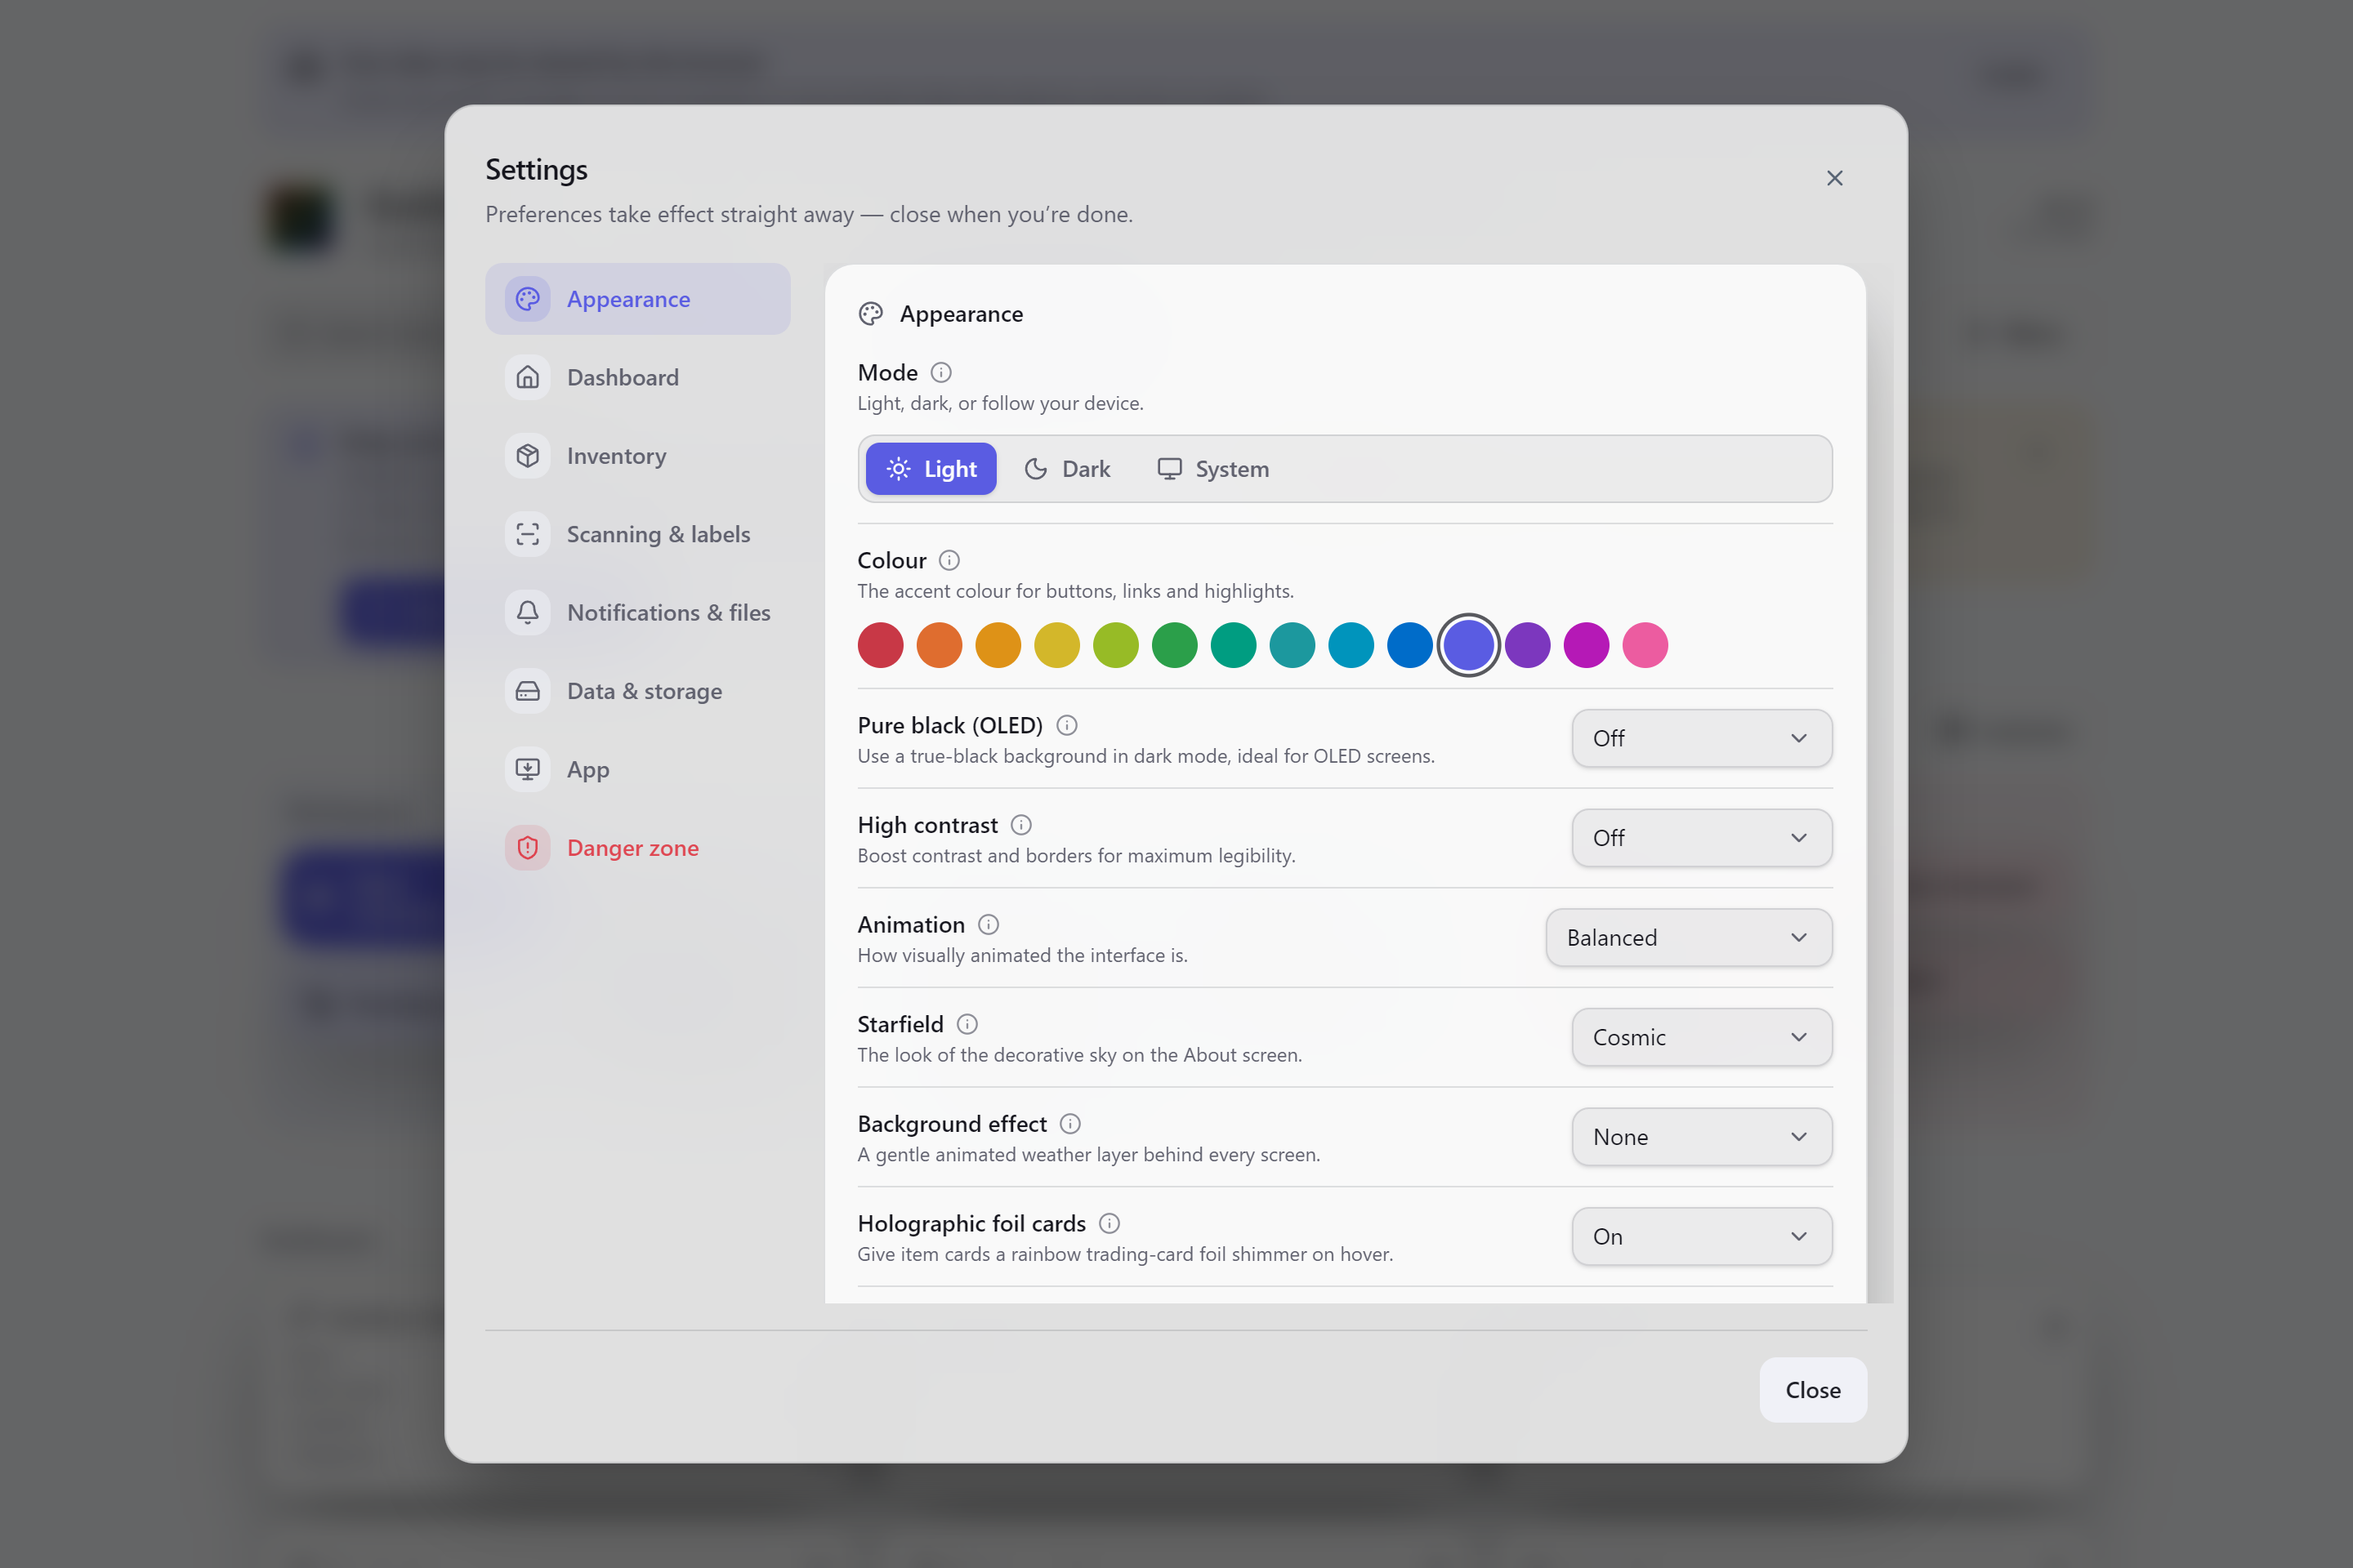
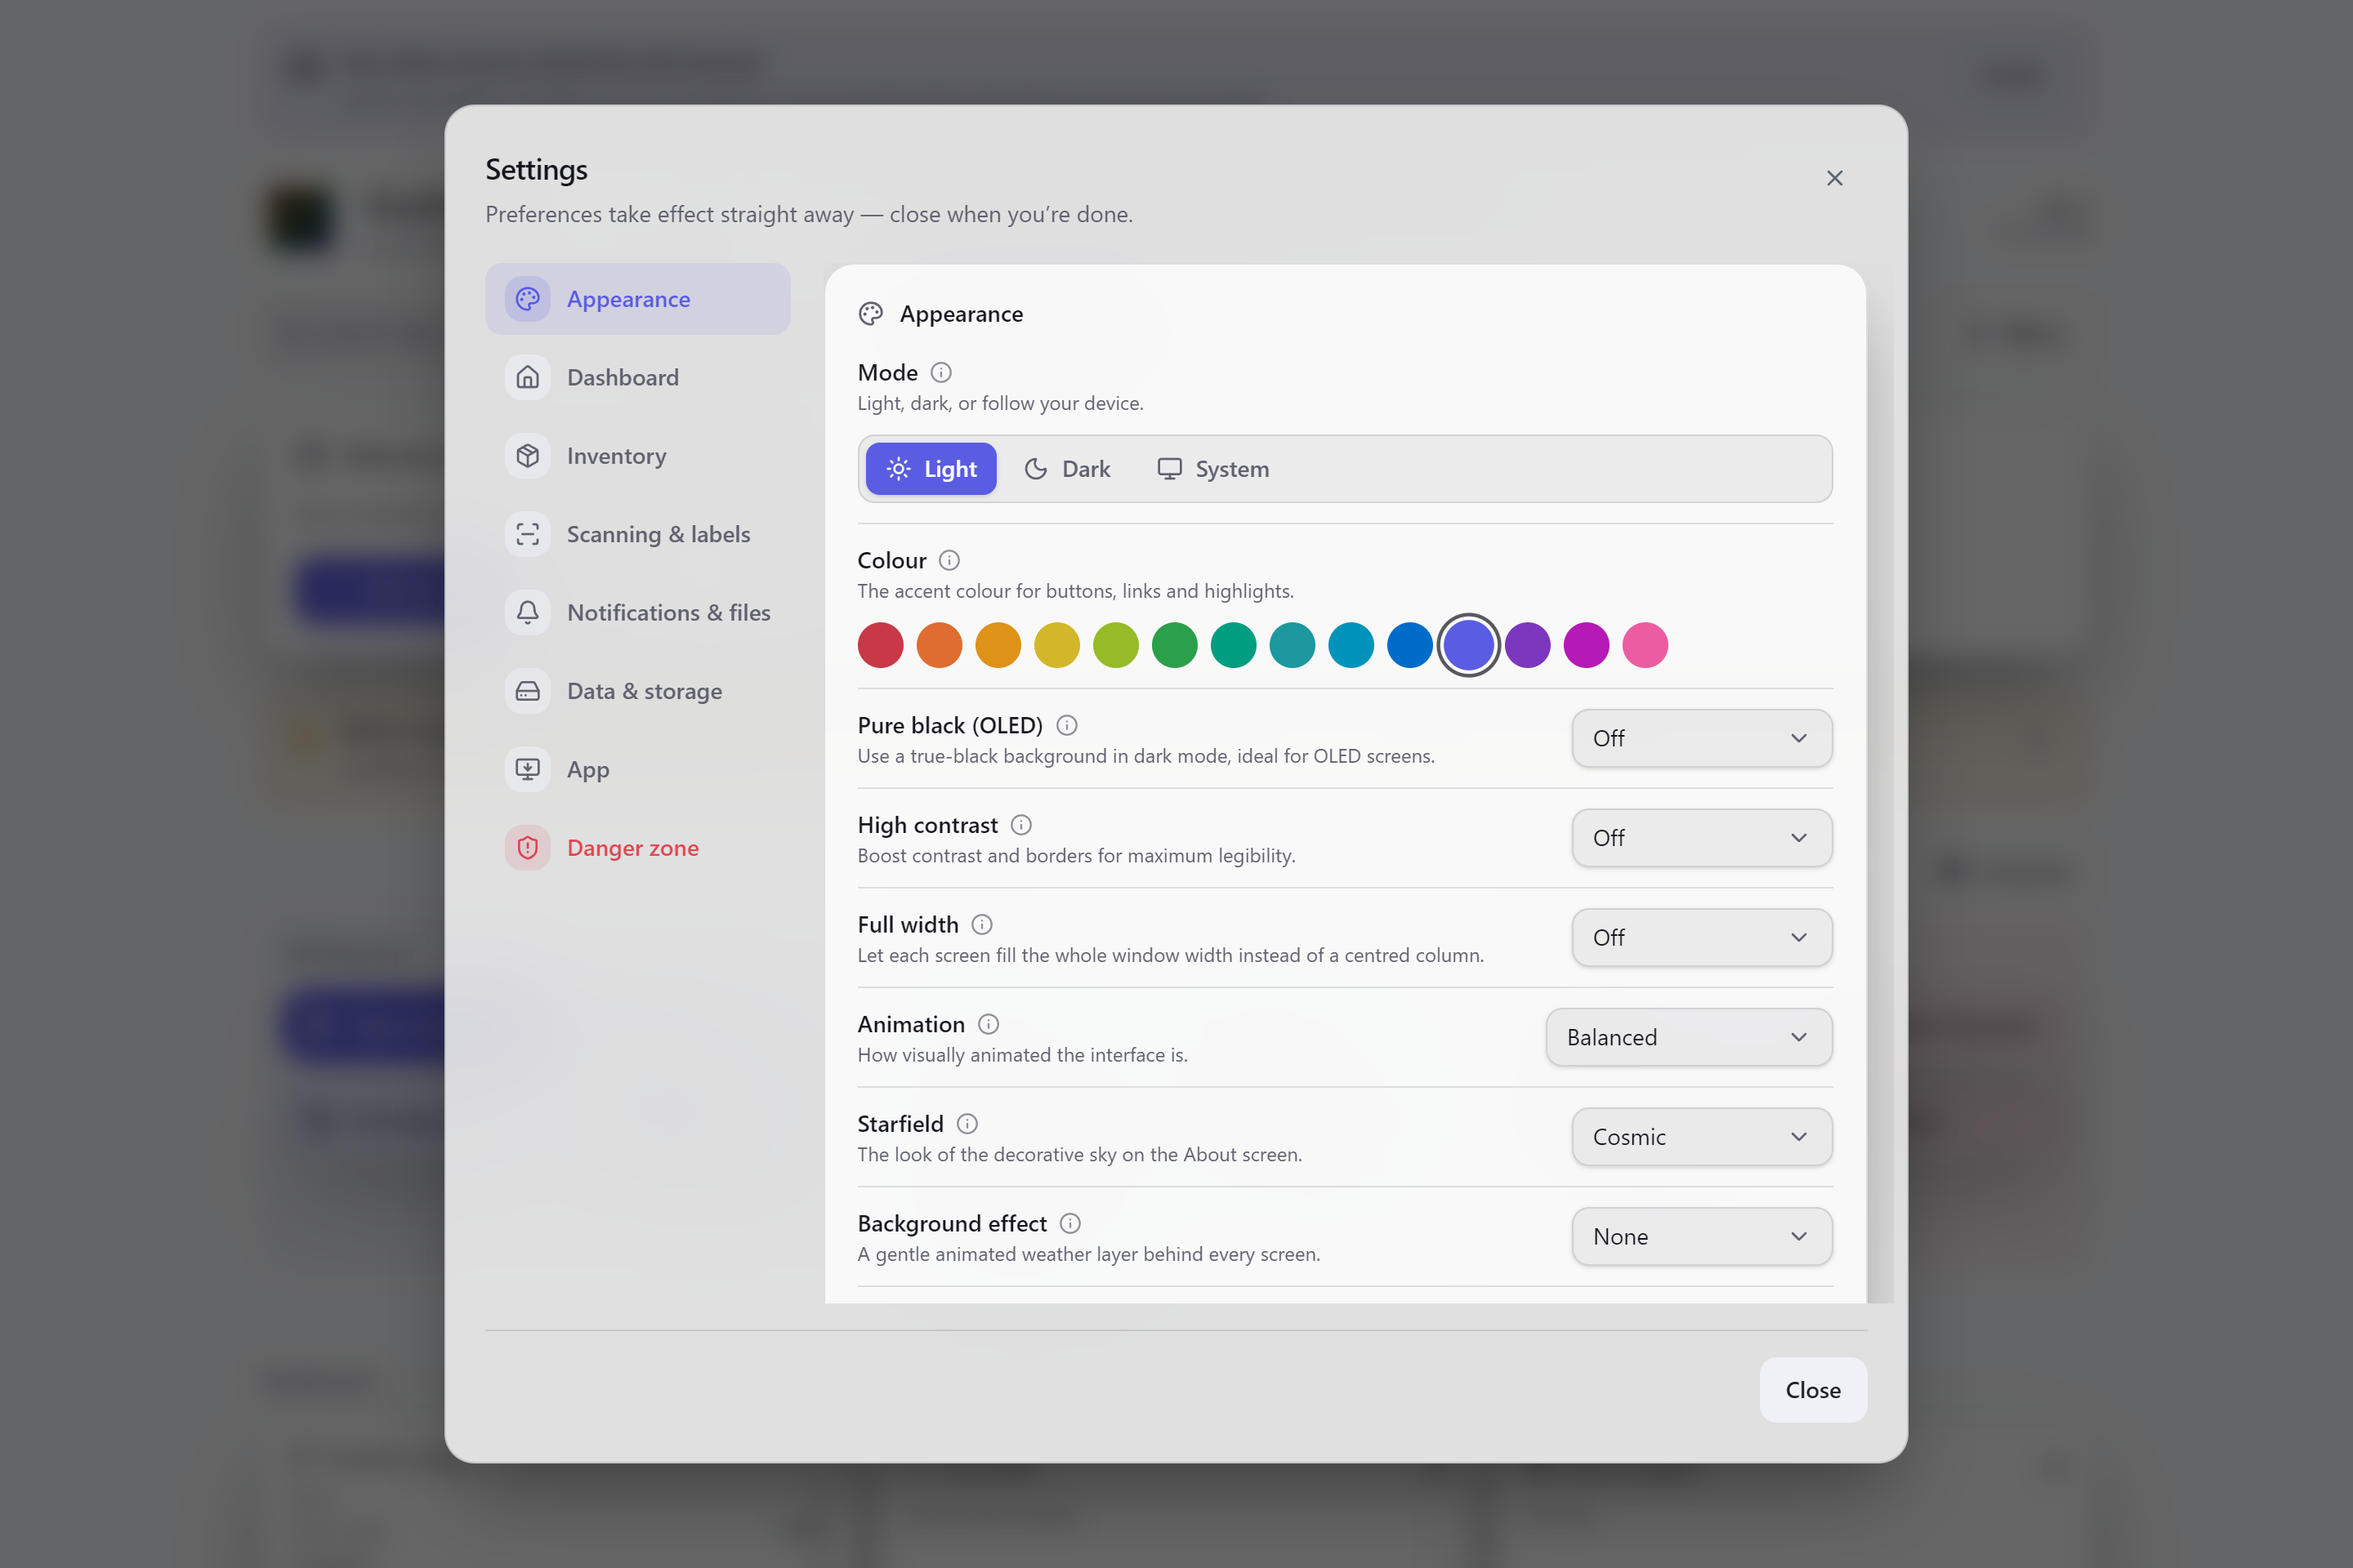
feat(appearance): add a Full-width page layout toggle (#14)
Add a "Full width" On/Off switch to Settings → Appearance (default off).
When on, the shared PageContainer frame drops its centred max-width cap so
every screen fills the viewport width; off keeps the centred column. The
storage-banner chrome follows the same opt-out so it stays aligned with the
page. Backed by a new `fullWidth` preference read straight from the store.

diff --git a/src/state/stores/usePreferencesStore.ts b/src/state/stores/usePreferencesStore.ts
@@ -124,6 +124,14 @@ interface PreferencesStore {
   /** Accessibility high-contrast mode; boosts contrast + borders over the active mode/accent. */
   readonly highContrast: boolean;
   /**
+   * Full-width page layout (issue #14). When on, the shared page frame drops its centred
+   * `max-w` cap so every screen fills the available viewport width instead of sitting in a
+   * fixed-width column. **Off by default** — the centred column is the shipped look. Read
+   * directly from this store by the {@link import('@/components/foundry').PageContainer} frame
+   * (a pure layout concern, so — unlike the mode/accent axes — it is not projected onto `<html>`).
+   */
+  readonly fullWidth: boolean;
+  /**
    * Animation level: how visually animated the interface is, on a single graded scale
    * (`full` → `balanced` → `calm` → `off` → `headache`). **Defaults to `full`** (the shipped
    * experience). Supersedes the earlier binary "Reduce effects" switch; it is projected onto
@@ -377,6 +385,8 @@ interface PreferencesStore {
   setAccent: (accent: Accent) => void;
   setOledDark: (enabled: boolean) => void;
   setHighContrast: (enabled: boolean) => void;
+  /** Turn the full-width page layout on/off (issue #14). */
+  setFullWidth: (enabled: boolean) => void;
   /**
    * Set how visually animated the interface is. Choosing the maximal `headache` preset also brings
    * the ambient Snow background effect on by default (when no effect is chosen yet), as part of its
@@ -467,6 +477,7 @@ export const usePreferencesStore = create<PreferencesStore>()(
       accent: 'violet',
       oledDark: false,
       highContrast: false,
+      fullWidth: false,
       animationLevel: DEFAULT_ANIMATION_LEVEL,
       starfieldVariant: DEFAULT_STARFIELD_VARIANT,
       backgroundEffect: DEFAULT_BACKGROUND_EFFECT,
@@ -525,6 +536,7 @@ export const usePreferencesStore = create<PreferencesStore>()(
       setAccent: (accent) => set({ accent: normaliseAccent(accent) }),
       setOledDark: (oledDark) => set({ oledDark }),
       setHighContrast: (highContrast) => set({ highContrast }),
+      setFullWidth: (fullWidth) => set({ fullWidth }),
       // Normalise so a stale/unknown persisted value can never reach the apply seam / gate.
       setAnimationLevel: (level) =>
         set((state) => {

diff --git a/src/routes/__root.tsx b/src/routes/__root.tsx
@@ -6,6 +6,8 @@ import { OfflineIndicator } from '@/components/OfflineIndicator';
 import { CommandPalette } from '@/features/command-palette/CommandPalette';
 import { FirstRunModules } from '@/features/modules/FirstRunModules';
 import { SettingsDialogHost } from '@/features/settings/SettingsDialogHost';
+import { cn } from '@/lib/utils';
+import { usePreferencesStore } from '@/state/stores/usePreferencesStore';
 
 /**
  * Root route layout (spec §2.4.2). Hosts the always-visible app chrome — the
@@ -26,6 +28,11 @@ export const Route = createRootRoute({
 });
 
 function RootLayout() {
+  // Keep the storage-banner stack aligned with the page frame's width: it normally shares the
+  // `max-w-6xl` cap so the banners line up with the content beneath, and follows the same
+  // Full-width opt-out (issue #14) so they widen together rather than the banners staying in a
+  // narrow centred column while the page fills the viewport.
+  const fullWidth = usePreferencesStore((s) => s.fullWidth);
   // `isolate` makes this element the stacking context the fixed background-effects canvas belongs
   // to, so its `-z-10` paints *above* this element's opaque `bg-background` (a stacking context
   // paints negative-z-index children after its own background) yet still below all content. Without
@@ -36,7 +43,12 @@ function RootLayout() {
       {/* Decorative animated weather layer, behind all content (opt-in; renders nothing when off). */}
       <BackgroundEffects />
       <SkipLink />
-      <div className="print-hide mx-auto w-full max-w-6xl px-4 pt-4 empty:hidden">
+      <div
+        className={cn(
+          'print-hide mx-auto w-full px-4 pt-4 empty:hidden',
+          fullWidth ? 'max-w-none' : 'max-w-6xl',
+        )}
+      >
         <StorageBanners />
       </div>
       <Outlet />

diff --git a/src/components/foundry/page-container.test.tsx b/src/components/foundry/page-container.test.tsx
@@ -1,8 +1,13 @@
 import { describe, it, expect, afterEach } from 'vitest';
 import { render, screen, cleanup } from '@testing-library/react';
 import { PageContainer } from './page-container';
+import { usePreferencesStore } from '@/state/stores/usePreferencesStore';
 
-afterEach(cleanup);
+afterEach(() => {
+  cleanup();
+  // The full-width layout is a store-read; reset it so it can't leak between cases.
+  usePreferencesStore.setState({ fullWidth: false });
+});
 
 describe('PageContainer — the canonical page frame (spec §2.4.2)', () => {
   it('centres content at the one shared width with a consistent top offset', () => {
@@ -42,6 +47,21 @@ describe('PageContainer — the canonical page frame (spec §2.4.2)', () => {
     expect(frame?.className).not.toContain('gap-6');
     // Same top offset as the default — the header Y never moves between screens.
     expect(frame?.className).toContain('pt-6');
+  });
+
+  it('drops the centred width cap when Full width is on (issue #14)', () => {
+    usePreferencesStore.setState({ fullWidth: true });
+    render(
+      <PageContainer>
+        <span data-testid="child">content</span>
+      </PageContainer>,
+    );
+    const frame = screen.getByTestId('child').parentElement;
+    // The centred cap (and the large-format ceiling) give way to a full-width frame; the
+    // horizontal padding stays so content never touches the viewport edge.
+    expect(frame?.className).toContain('max-w-none');
+    expect(frame?.className).not.toContain('max-w-6xl');
+    expect(frame?.className).toContain('px-4');
   });
 
   it('merges extra classes onto the frame', () => {

diff --git a/src/components/foundry/page-container.tsx b/src/components/foundry/page-container.tsx
@@ -1,5 +1,6 @@
 import { type ReactNode } from 'react';
 import { cn } from '@/lib/utils';
+import { usePreferencesStore } from '@/state/stores/usePreferencesStore';
 
 export interface PageContainerProps {
   readonly children: ReactNode;
@@ -29,13 +30,19 @@ export interface PageContainerProps {
  * relaxed to a wider ceiling (and the side gutter widened), so the frame reclaims the room
  * it would otherwise leave as empty margin — see the `large-format:` variant in
  * `styles/index.css` and `lib/env/device.ts`. Standard phones and laptops are untouched.
+ *
+ * When the user turns on **Full width** (Settings → Appearance, issue #14) the centred `max-w`
+ * cap is dropped entirely — including the large-format ceiling — so every screen fills the
+ * viewport width; the horizontal padding is kept so content never touches the edge. Off by
+ * default (the centred column is the shipped look), read straight from the preferences store.
  */
 export function PageContainer({ children, fullHeight, className }: PageContainerProps) {
+  const fullWidth = usePreferencesStore((s) => s.fullWidth);
   return (
     <div
       className={cn(
-        'mx-auto flex w-full max-w-6xl flex-col px-4 pt-6',
-        'large-format:max-w-[90rem] large-format:px-8',
+        'mx-auto flex w-full flex-col px-4 pt-6 large-format:px-8',
+        fullWidth ? 'max-w-none' : 'max-w-6xl large-format:max-w-[90rem]',
         fullHeight ? 'h-dvh pb-6' : 'min-h-dvh gap-6 pb-16',
         className,
       )}

diff --git a/src/features/settings/SettingsDialog.tsx b/src/features/settings/SettingsDialog.tsx
@@ -262,6 +262,27 @@ export default function SettingsDialog({ open, onClose }: { open: boolean; onClo
             />
           </SettingRow>
           <SettingRow
+            label="Full width"
+            description="Let each screen fill the whole window width instead of a centred column."
+            hint={
+              'Drops the fixed **centred column** every screen normally sits in, so the content ' +
+              'stretches to fill the full width of the window.\n\n' +
+              'Handy on a **wide monitor**, where the default leaves generous margins either side — ' +
+              'turn this on to use that space for more items across, wider tables and roomier ' +
+              'detail views. Leave it **off** for the calmer, easier-to-read centred layout on ' +
+              'typical displays.'
+            }
+          >
+            <Select
+              aria-label="Full width"
+              data-testid="setting-full-width"
+              className="h-9 w-40"
+              value={prefs.fullWidth ? 'on' : 'off'}
+              onChange={(value) => prefs.setFullWidth(value === 'on')}
+              options={OFF_ON_OPTIONS}
+            />
+          </SettingRow>
+          <SettingRow
             label="Animation"
             description="How visually animated the interface is."
             hint={ANIMATION_LEVEL_HINT}

diff --git a/src/features/settings/SettingsDialog.test.tsx b/src/features/settings/SettingsDialog.test.tsx
@@ -105,6 +105,7 @@ describe('SettingsDialog — appearance controls apply to the document', () => {
       accent: 'violet',
       oledDark: false,
       highContrast: false,
+      fullWidth: false,
       animationLevel: 'balanced',
       starfieldVariant: 'cosmic',
       backgroundEffect: 'none',
@@ -203,6 +204,18 @@ describe('SettingsDialog — appearance controls apply to the document', () => {
     fireEvent.click(screen.getByTestId('setting-background-effect'));
     fireEvent.click(screen.getByRole('option', { name: 'Snow' }));
     expect(usePreferencesStore.getState().backgroundEffect).toBe('snow');
+  });
+
+  it('full-width control persists the layout choice to the store (issue #14)', () => {
+    // A pure layout concern read by the shared PageContainer frame (not projected onto <html>),
+    // so — like the background effect — the control's job is simply to persist the choice.
+    render(<SettingsDialog open onClose={() => {}} />);
+    fireEvent.click(screen.getByRole('tab', { name: 'Appearance' }));
+
+    expect(usePreferencesStore.getState().fullWidth).toBe(false);
+    fireEvent.click(screen.getByTestId('setting-full-width'));
+    fireEvent.click(screen.getByRole('option', { name: 'On' }));
+    expect(usePreferencesStore.getState().fullWidth).toBe(true);
   });
 });
 

diff --git a/docs/wiki/Appearance-and-Theming.md b/docs/wiki/Appearance-and-Theming.md
@@ -36,6 +36,14 @@ light and dark mode.
 > Pure black and High contrast stack with any accent colour, so you can have, say, a
 > high-contrast dark theme with a teal accent.
 
+## Full width
+
+By default every screen sits in a centred column with margins either side, which keeps lines
+comfortable to read on a typical display. Turn **Full width** on and each screen stretches to
+fill the whole window instead — handy on a wide monitor, where you get more items across, wider
+tables and roomier detail views. It's **off** by default; switch it back any time for the
+calmer centred layout.
+
 ## Motion & decorative flair
 
 Gubbins has some gentle visual polish that you can dial up or down:
